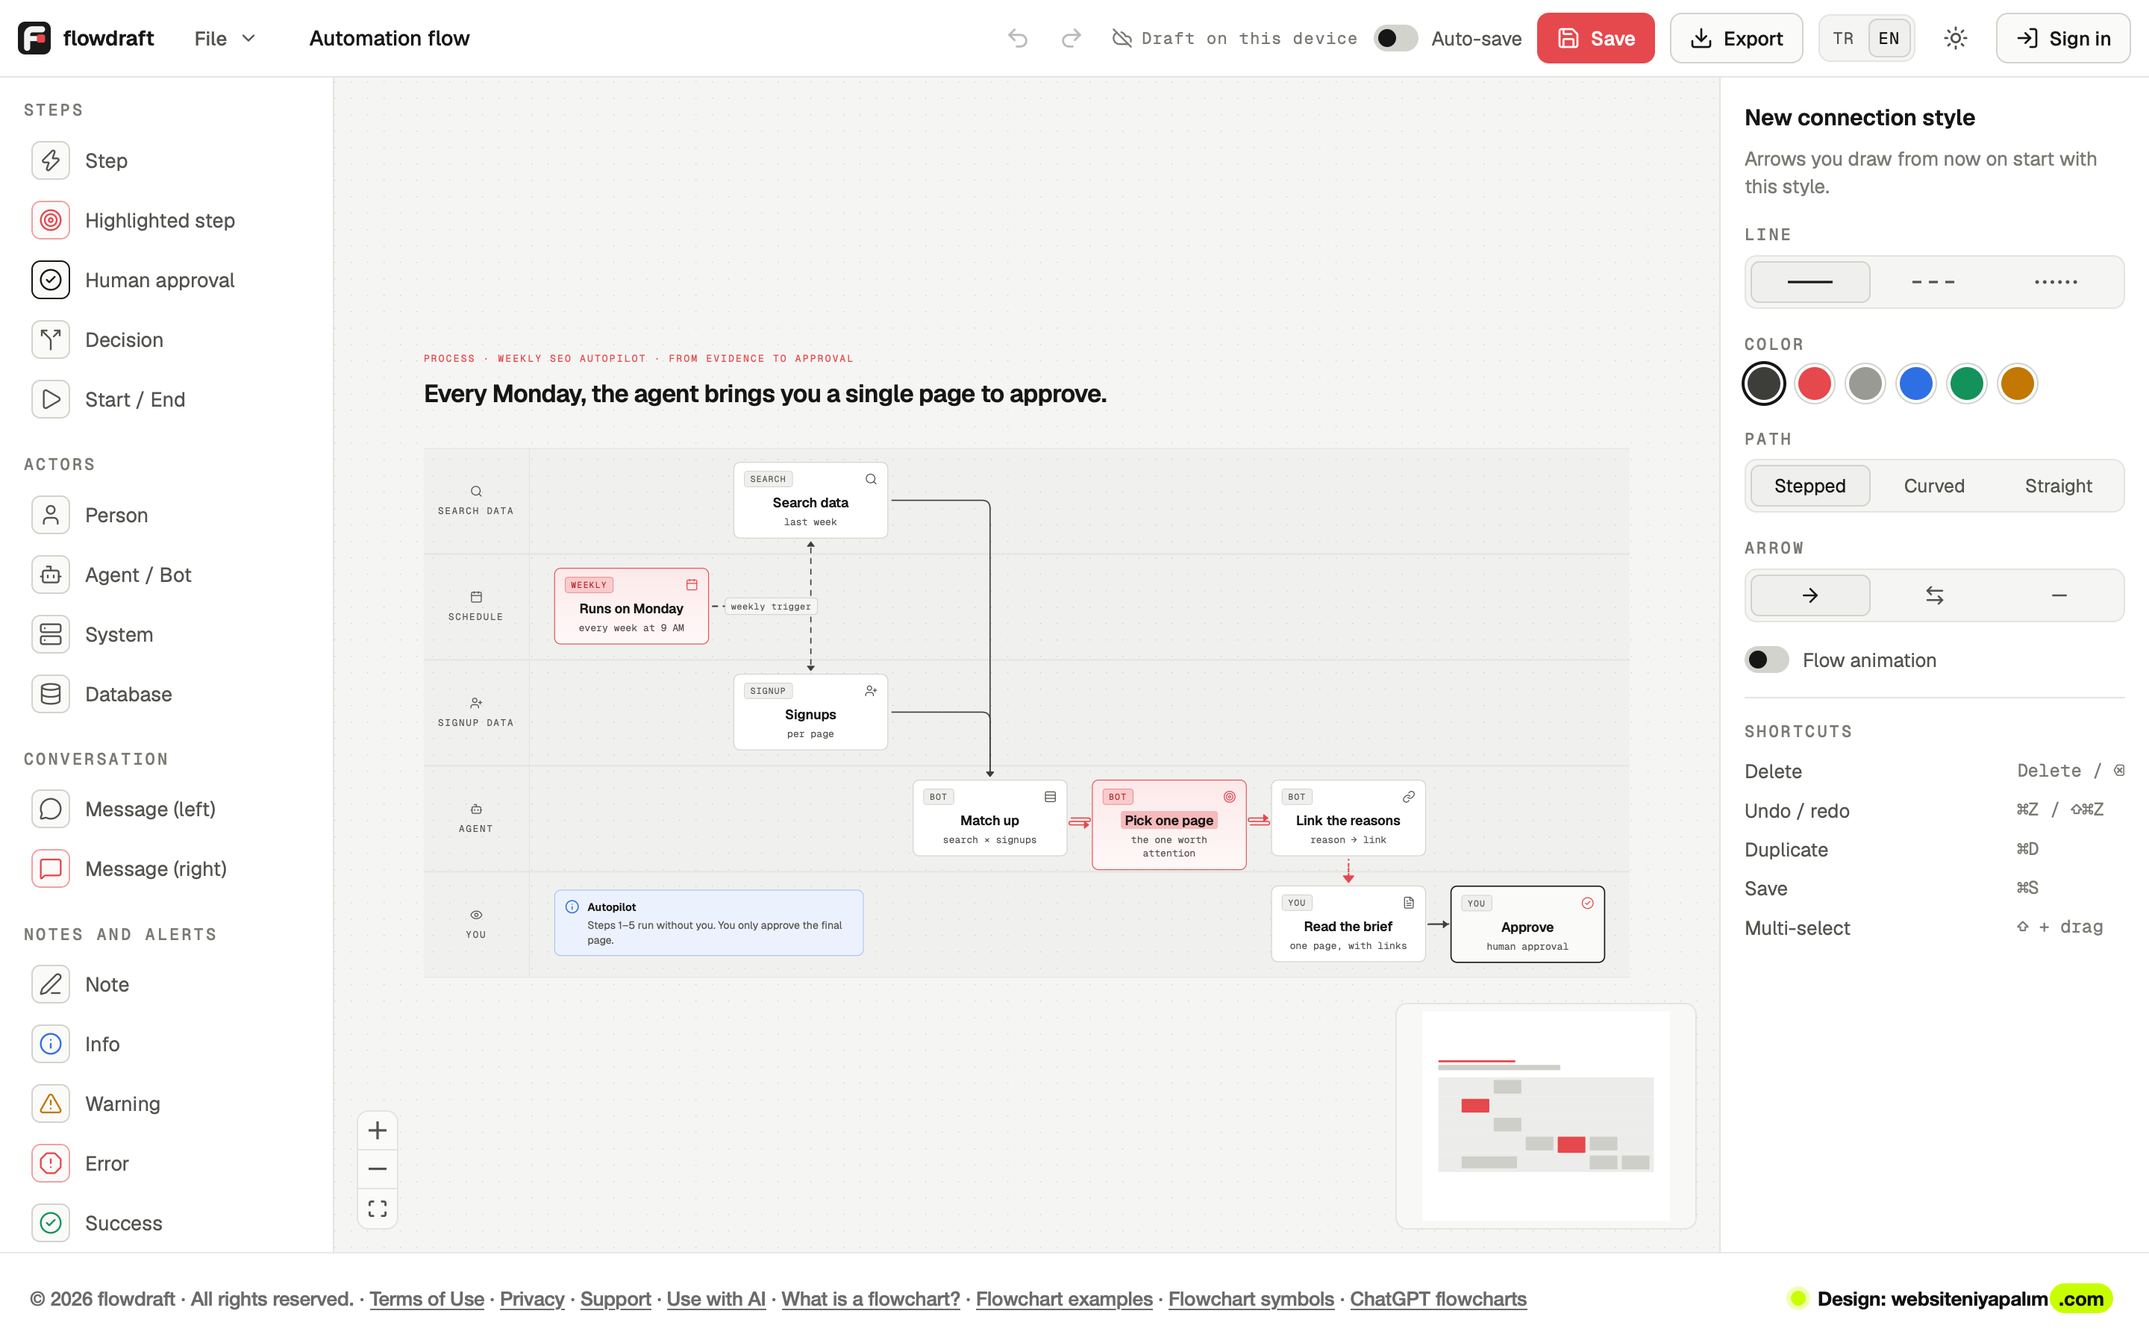
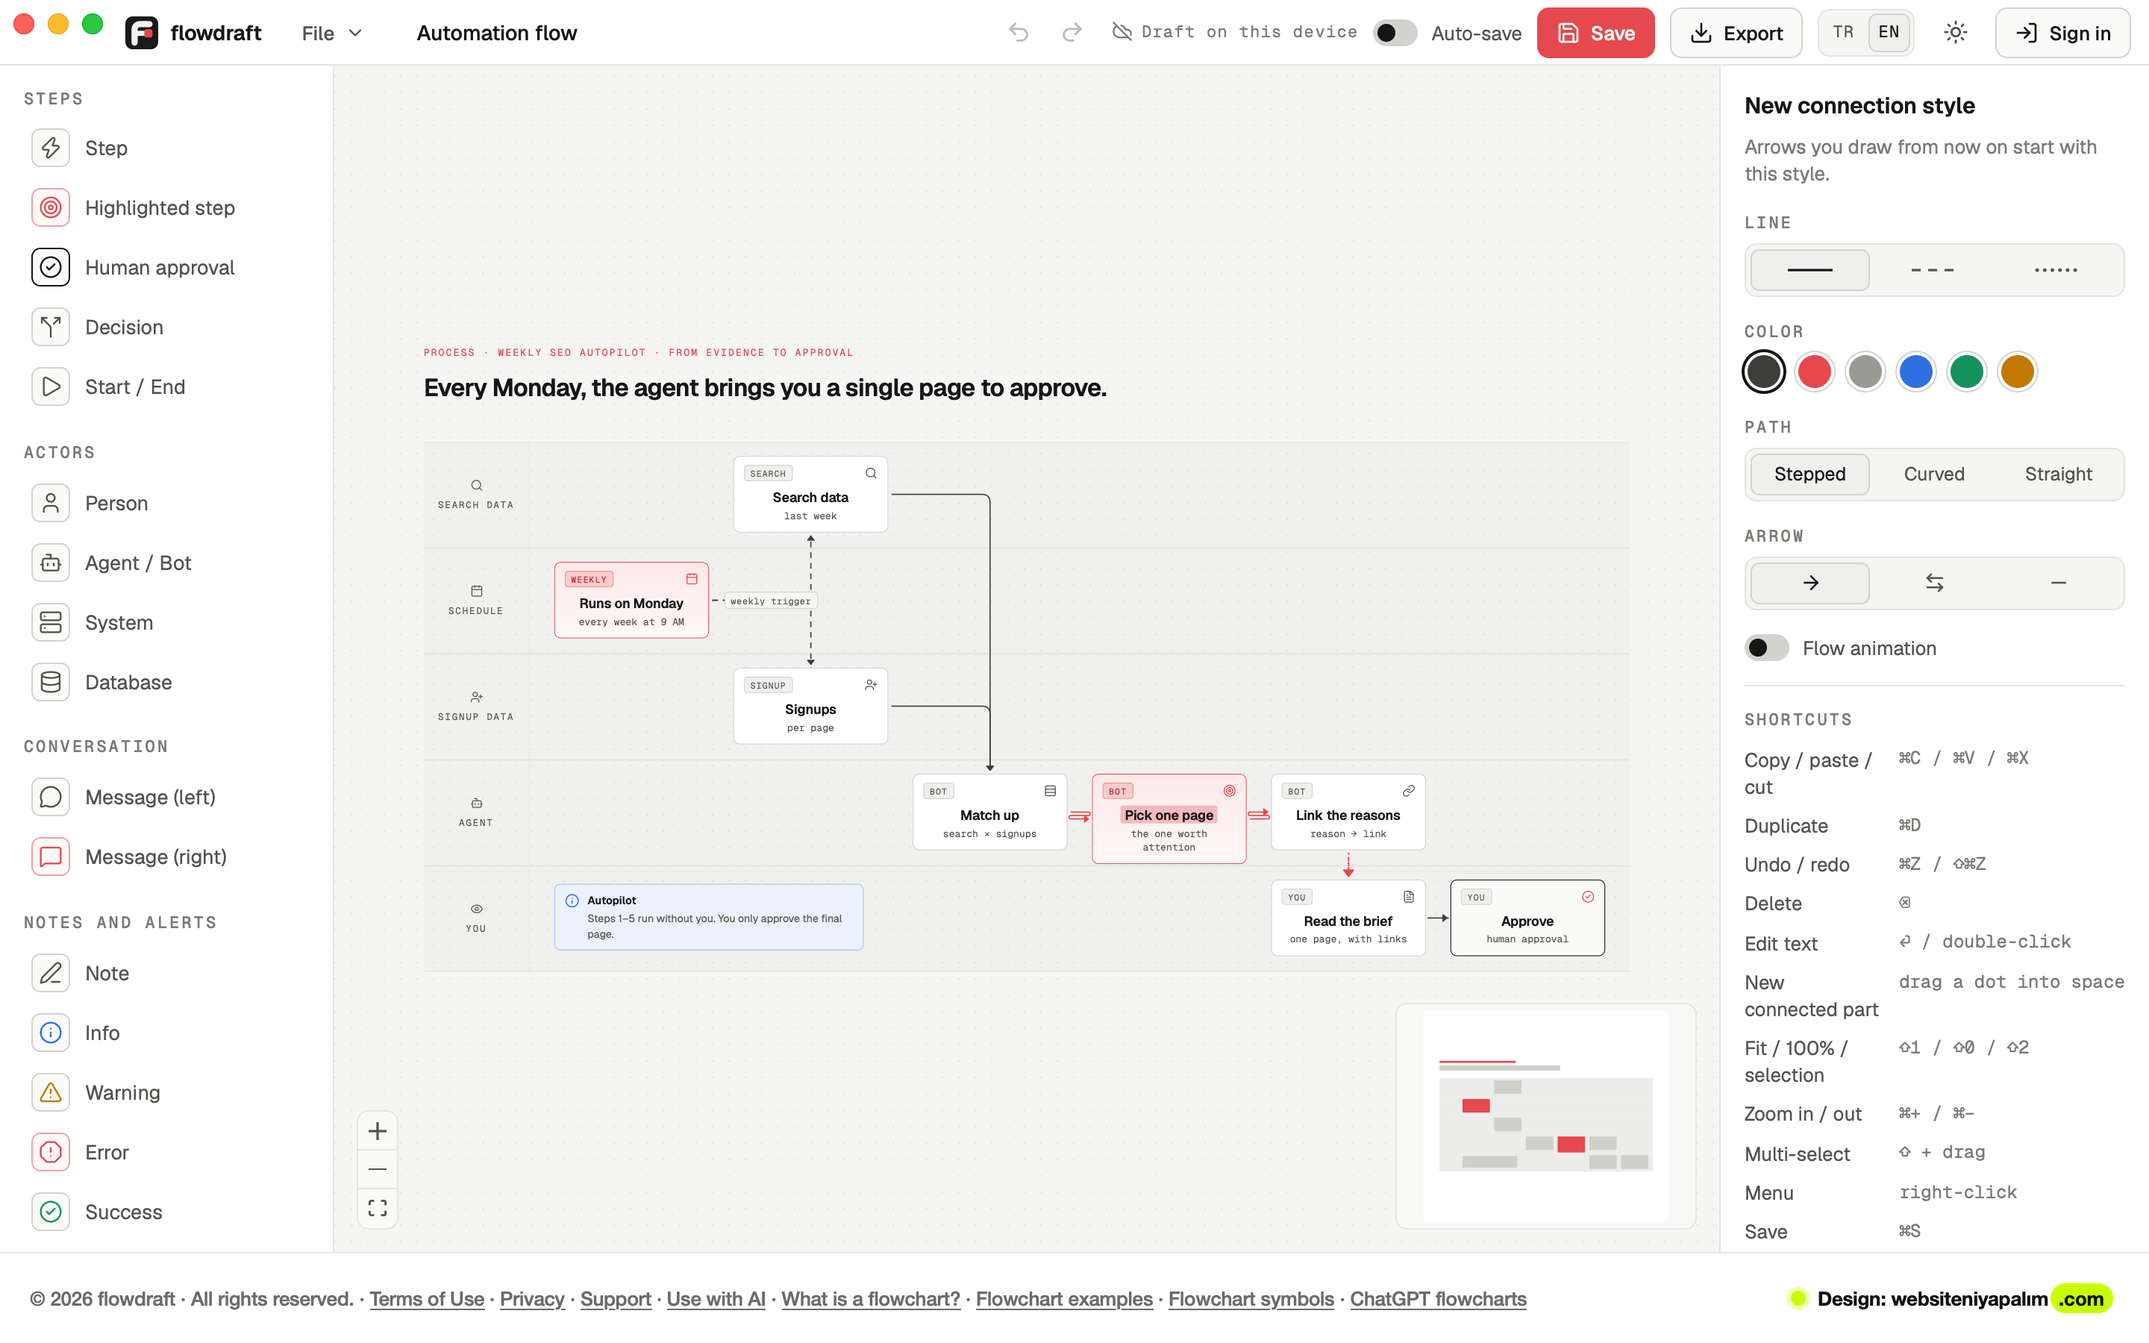
App Store: Mac screenshots with the window chrome; listing texts feature the MCP connection
- The screenshot hook composes WebKit's 2x page snapshot (requested at twice the width, so it is 2880×1800 on
  any screen) with the title bar strip: AppKit's own on a Retina window, macOS-coloured traffic lights on a 1x one.
  The window moves to a Retina screen first when there is one.
- The eight Mac pictures are retaken with the new 44px top bar and the current shortcut list; the script now hides
  the 0.3.0 what's-new dialog.
- Promotional text, keywords and description (TR and EN) say that flowdraft connects to Claude, ChatGPT, Claude
  Code, Codex, Cursor and VS Code over MCP, that flows can be drawn from the chat and that the open flow updates live.

diff --git a/ios/Flowdraft/WebViewController.swift b/ios/Flowdraft/WebViewController.swift
@@ -337,6 +337,7 @@ extension WebViewController {
            let restrictions = view.window?.windowScene?.sizeRestrictions {
             restrictions.minimumSize = CGSize(width: size[0], height: size[1])
             restrictions.maximumSize = restrictions.minimumSize
+            Self.moveWindowToRetinaScreen(height: size[1])
         }
         #else
         if env["FLOWDRAFT_DEBUG_LANDSCAPE"] != nil {
@@ -350,14 +351,125 @@ extension WebViewController {
             // `FLOWDRAFT_DEBUG_SNAPSHOT=/path.png` writes the web view's pixels once the script is done (App Store screenshots).
             guard let self, let path = env["FLOWDRAFT_DEBUG_SNAPSHOT"], (try? result.get()) as? String != "reload" else { return }
             DispatchQueue.main.asyncAfter(deadline: .now() + 0.6) {
+                #if targetEnvironment(macCatalyst)
+                // The Mac picture is the window as the App Store shows it: the page from the web view (rendered out of
+                // process, so a plain window capture misses it) with the traffic lights AppKit draws on top. The app
+                // comes to the front first so the lights are coloured.
+                Self.activateApp()
+                DispatchQueue.main.asyncAfter(deadline: .now() + 0.5) {
+                    // 2x pixels whatever the screen: WebKit renders at the requested width and tags the image 1x.
+                    let config = WKSnapshotConfiguration()
+                    config.snapshotWidth = NSNumber(value: Double(self.webView.bounds.width) * 2)
+                    self.webView.takeSnapshot(with: config) { page, error in
+                        Self.logScreens(page: page)
+                        let image = page.map { Self.windowPicture(page: $0, size: self.webView.bounds.size) }
+                        if let data = image?.pngData() { try? data.write(to: URL(fileURLWithPath: path)) }
+                        print("FLOWDRAFT_DEBUG_SNAPSHOT", image.map { "\(Int($0.size.width * $0.scale))x\(Int($0.size.height * $0.scale))" } ?? "none", error.map { "\($0)" } ?? "")
+                        fflush(stdout)
+                    }
+                }
+                #else
                 self.webView.takeSnapshot(with: nil) { image, error in
                     if let data = image?.pngData() { try? data.write(to: URL(fileURLWithPath: path)) }
                     print("FLOWDRAFT_DEBUG_SNAPSHOT", image.map { "\(Int($0.size.width * $0.scale))x\(Int($0.size.height * $0.scale))" } ?? "none", error.map { "\($0)" } ?? "")
                     fflush(stdout)
                 }
+                #endif
             }
         }
     }
+
+    #if targetEnvironment(macCatalyst)
+    private static func activateApp() {
+        guard let appClass = NSClassFromString("NSApplication"),
+              let app = (appClass as AnyObject).value(forKey: "sharedApplication") as? NSObject else { return }
+        app.perform(NSSelectorFromString("activate"))
+    }
+
+    /// App Store pictures want 2x pixels: the window goes to a Retina screen when it was left on another one.
+    private static func moveWindowToRetinaScreen(height: Double) {
+        guard let window = appKitWindow(), let screenClass = NSClassFromString("NSScreen"),
+              let screens = (screenClass as AnyObject).value(forKey: "screens") as? [NSObject],
+              let retina = screens.first(where: { ($0.value(forKey: "backingScaleFactor") as? Double ?? 1) >= 2 }),
+              let frame = (retina.value(forKey: "frame") as? NSValue)?.cgRectValue else { return }
+        typealias SetOrigin = @convention(c) (AnyObject, Selector, CGPoint) -> Void
+        let selector = NSSelectorFromString("setFrameOrigin:")
+        guard let imp = window.method(for: selector) else { return }
+        unsafeBitCast(imp, to: SetOrigin.self)(window, selector, CGPoint(x: frame.minX, y: frame.maxY - height))
+    }
+
+    private static func appKitWindow() -> NSObject? {
+        guard let appClass = NSClassFromString("NSApplication"),
+              let app = (appClass as AnyObject).value(forKey: "sharedApplication") as? NSObject else { return nil }
+        return (app.value(forKey: "keyWindow") as? NSObject) ?? (app.value(forKey: "windows") as? [NSObject])?.first
+    }
+
+    /// The title bar strip as AppKit draws it (the traffic lights on a transparent background), at the screen's scale.
+    private static func titleBarPicture() -> (image: UIImage, size: CGSize)? {
+        guard let window = appKitWindow(),
+              let frame = (window.value(forKey: "contentView") as? NSObject)?.value(forKey: "superview") as? NSObject,
+              let subviews = frame.value(forKey: "subviews") as? [NSObject],
+              let bar = subviews.first(where: { NSStringFromClass(type(of: $0)).contains("TitlebarContainerView") }),
+              let bounds = (bar.value(forKey: "bounds") as? NSValue)?.cgRectValue else { return nil }
+        typealias RepFor = @convention(c) (AnyObject, Selector, CGRect) -> Unmanaged<AnyObject>?
+        typealias Cache = @convention(c) (AnyObject, Selector, CGRect, AnyObject) -> Void
+        let repSelector = NSSelectorFromString("bitmapImageRepForCachingDisplayInRect:")
+        let cacheSelector = NSSelectorFromString("cacheDisplayInRect:toBitmapImageRep:")
+        guard let repImp = bar.method(for: repSelector), let cacheImp = bar.method(for: cacheSelector),
+              let rep = unsafeBitCast(repImp, to: RepFor.self)(bar, repSelector, bounds)?.takeUnretainedValue() as? NSObject
+        else { return nil }
+        unsafeBitCast(cacheImp, to: Cache.self)(bar, cacheSelector, bounds, rep)
+        // The rep's CGImage can't travel through key-value coding; its PNG bytes can (NSBitmapImageFileTypePNG = 4).
+        typealias RepData = @convention(c) (AnyObject, Selector, UInt, AnyObject?) -> Unmanaged<AnyObject>?
+        let dataSelector = NSSelectorFromString("representationUsingType:properties:")
+        guard let dataImp = rep.method(for: dataSelector),
+              let data = unsafeBitCast(dataImp, to: RepData.self)(rep, dataSelector, 4, NSDictionary())?.takeUnretainedValue() as? Data,
+              let image = UIImage(data: data) else { return nil }
+        return (image, bounds.size)
+    }
+
+    private static func logScreens(page: UIImage?) {
+        guard let screenClass = NSClassFromString("NSScreen"),
+              let screens = (screenClass as AnyObject).value(forKey: "screens") as? [NSObject] else { return }
+        let list = screens.map { "\(($0.value(forKey: "frame") as? NSValue)?.cgRectValue ?? .zero)@\($0.value(forKey: "backingScaleFactor") ?? 0)" }
+        let window = appKitWindow()
+        print("FLOWDRAFT_DEBUG_SCREENS", list, "window", (window?.value(forKey: "frame") as? NSValue)?.cgRectValue ?? .zero,
+              "@", window?.value(forKey: "backingScaleFactor") ?? 0, "page", page?.size ?? .zero, "@", page?.scale ?? 0)
+        fflush(stdout)
+    }
+
+    /// The window's backing scale, 1 on a plain screen and 2 on a Retina one.
+    private static func windowScale() -> CGFloat {
+        (appKitWindow()?.value(forKey: "backingScaleFactor") as? CGFloat) ?? 1
+    }
+
+    /// The page's pixels at 2x with the title bar strip on top. AppKit's own strip is used when the window sits on a
+    /// Retina screen; on a plain screen it would come out soft, so the traffic lights are drawn in macOS's colours.
+    private static func windowPicture(page: UIImage, size: CGSize) -> UIImage {
+        let format = UIGraphicsImageRendererFormat()
+        format.scale = 2
+        return UIGraphicsImageRenderer(size: size, format: format).image { ctx in
+            page.draw(in: CGRect(origin: .zero, size: size))
+            if windowScale() >= 2, let bar = titleBarPicture() {
+                bar.image.draw(in: CGRect(origin: .zero, size: bar.size))
+                return
+            }
+            let lights: [(fill: UIColor, ring: UIColor)] = [
+                (UIColor(red: 1, green: 0.373, blue: 0.341, alpha: 1), UIColor(red: 0.878, green: 0.267, blue: 0.243, alpha: 1)),
+                (UIColor(red: 0.996, green: 0.737, blue: 0.18, alpha: 1), UIColor(red: 0.871, green: 0.631, blue: 0.137, alpha: 1)),
+                (UIColor(red: 0.157, green: 0.784, blue: 0.251, alpha: 1), UIColor(red: 0.102, green: 0.671, blue: 0.161, alpha: 1)),
+            ]
+            for (i, light) in lights.enumerated() {
+                let rect = CGRect(x: 9 + CGFloat(i) * 23, y: 9, width: 14, height: 14)
+                light.fill.setFill()
+                ctx.cgContext.fillEllipse(in: rect)
+                light.ring.setStroke()
+                ctx.cgContext.setLineWidth(0.5)
+                ctx.cgContext.strokeEllipse(in: rect.insetBy(dx: 0.25, dy: 0.25))
+            }
+        }
+    }
+    #endif
 }
 #endif
 

diff --git a/ios/AppStore/metadata.md b/ios/AppStore/metadata.md
@@ -1,6 +1,6 @@
 # App Store kaydı — flowdraft (iPhone + iPad + Mac)
 
-- macOS sürümü aynı kayıt ve aynı bundle ID (Mac Catalyst, `project.yml`: `SUPPORTS_MACCATALYST`, cihaz ailesi 1,2,6 = Mac arayüzü; macOS 15+; `Flowdraft/Mac.entitlements` sandbox + ağ + kullanıcı seçimli dosya). Mac'te dışa aktarma kaydetme penceresi, bağlantılar varsayılan tarayıcı. ASC macOS sürümü 1.0 (2026-10-24), metinler aşağıdaki iPhone/iPad metinlerinin Mac uyarlaması (ASC'de), inceleme notları `review-notes-mac.txt`, ekran görüntüleri `screenshots/*-mac-*` (2880×1800, Debug build + `FLOWDRAFT_DEBUG_WINDOW=1440x900` + `FLOWDRAFT_DEBUG_SNAPSHOT`).
+- macOS sürümü aynı kayıt ve aynı bundle ID (Mac Catalyst, `project.yml`: `SUPPORTS_MACCATALYST`, cihaz ailesi 1,2,6 = Mac arayüzü; macOS 15+; `Flowdraft/Mac.entitlements` sandbox + ağ + kullanıcı seçimli dosya). Mac'te dışa aktarma kaydetme penceresi, bağlantılar varsayılan tarayıcı. ASC macOS sürümü 1.0 (2026-10-24), metinler aşağıdaki iPhone/iPad metinlerinin Mac uyarlaması (ASC'de), inceleme notları `review-notes-mac.txt`, ekran görüntüleri `screenshots/*-mac-*` (2880×1800, pencerenin tamamı, trafik ışıkları dahil: Debug build + `FLOWDRAFT_DEBUG_WINDOW=1440x900` + `FLOWDRAFT_DEBUG_SNAPSHOT`, `scripts/app-store/mac-screenshots.sh`). Mac metinleri ASC'de ayrı girilir; aşağıdaki metinlerin MCP bölümü ve tanıtım metni oraya da taşınmalı.
 - Demo hesap (App Review, iki platform): `appreview@flowdraft.tech`; parola Keychain'de `flowdraft-appstore-demo` öğesinde ve ASC "Sign-In Information" alanlarında.
 - Mac arşiv/yükleme: `xcodebuild archive -destination 'generic/platform=macOS,variant=Mac Catalyst'` + aynı `ExportOptions.plist` (3rd Party Mac Developer Installer sertifikası gerekir). Kimlik için `-allowProvisioningUpdates -authenticationKeyPath ~/.appstoreconnect/private_keys/AuthKey_XP2X24JU5D.p8 -authenticationKeyID XP2X24JU5D -authenticationKeyIssuerID <issuer>`.
 
@@ -19,13 +19,13 @@ flowdraft
 Akış diyagramı çiz ve paylaş
 
 ## Tanıtım metni (170)
-Sürükle, bağla, dışa aktar. Otomasyon, yazılım ve konuşma akışlarını dakikalar içinde çiz; PNG, SVG ya da JSON olarak paylaş. Hesap açmadan hemen başla.
+Sürükle, bağla, dışa aktar. Akışlarını dakikalar içinde çiz; PNG, SVG ya da JSON olarak paylaş. Claude ve ChatGPT'ye MCP ile bağla, akışı sohbetten çizdir.
 
 ## Anahtar kelimeler (100)
-akış,diyagram,şema,flowchart,süreç,iş akışı,otomasyon,mimari,çizim,tahta,plan,organizasyon
+akış,diyagram,şema,flowchart,süreç,iş akışı,otomasyon,mimari,çizim,plan,mcp,yapay zeka,ai
 
 ## Açıklama
-flowdraft, iPhone ve iPad için hızlı ve sade bir akış diyagramı editörü. Süreçlerini, otomasyonlarını, yazılım mimarini ve müşteri konuşmalarını birkaç dokunuşla çiz.
+flowdraft, iPhone, iPad ve Mac için hızlı ve sade bir akış diyagramı editörü. Süreçlerini, otomasyonlarını, yazılım mimarini ve müşteri konuşmalarını birkaç dokunuşla çiz. Claude, ChatGPT gibi AI araçlarına MCP ile bağlanır: akışını sohbetten çizdir, burada düzenle.
 
 HEMEN BAŞLA
 • Hesap açmadan kullan; çizimin bu cihazda otomatik saklanır.
@@ -51,10 +51,13 @@ DIŞA AKTAR VE PAYLAŞ
 • Ücretsiz hesapla projelerini kaydet, otomatik kaydetmeyi aç; aynı projeleri flowdraft.tech üzerinden tarayıcıda da aç.
 • Hesabını ve projelerini istediğin an uygulama içinden silebilirsin.
 
-AI ARAÇLARIYLA KULLAN
-• İstersen flowdraft hesabını MCP destekleyen bir AI asistanına bağla; “bana bir akış çiz” de, akış hesabına kaydedilsin, sonra burada açıp düzenle.
+AI ARAÇLARINA MCP İLE BAĞLANIR
+• flowdraft, MCP (Model Context Protocol) destekleyen her AI aracına bağlanır: Claude, ChatGPT, Claude Code, Codex, Cursor ve VS Code. Hesabına bir kez bağla, gerisi sohbette olur.
+• Sohbette “bana bir sipariş akışı çiz” de: AI akışı hesabına çizer, görselini sohbette gösterir, düzeltmelerini aynı akışa uygular. flowdraft’ı açman bile gerekmez.
+• Uygulamada açık olan akışı AI de görebilir; AI değiştirdiğinde ekran anında yenilenir. İstersen bu paylaşımı kapat.
+• Kurulum rehberi: flowdraft.tech/mcp
 
-Geri al / ileri al, çoğalt, çoklu seçim ve klavye kısayolları (⌘Z, ⇧⌘Z, ⌘D, ⌘S) var. Açık ve koyu tema cihazına uyar.
+Geri al / ileri al, kopyala / yapıştır, çoğalt, çoklu seçim, sağ tık menüsü, hizalama kılavuzları ve klavye kısayolları (⌘Z, ⌘C / ⌘V, ⌘D, ⌘S) var. Açık ve koyu tema cihazına uyar.
 
 flowdraft ücretsizdir; reklam ve uygulama içi satın alma yoktur.
 
@@ -67,13 +70,13 @@ flowdraft
 Draw and share flowcharts
 
 ## Promotional text (170)
-Drag, connect, export. Sketch automations, software architecture and conversations in minutes, then share them as PNG, SVG or JSON. Start right away, no account needed.
+Drag, connect, export. Sketch flows in minutes and share them as PNG, SVG or JSON. Connect Claude or ChatGPT over MCP and have your flows drawn from the chat.
 
 ## Keywords (100)
-flowchart,diagram,workflow,process,flow,chart,automation,architecture,mind map,whiteboard,planning
+flowchart,diagram,workflow,process,flow,chart,automation,architecture,whiteboard,planning,mcp,ai
 
 ## Description
-flowdraft is a fast, simple flowchart and diagram editor for iPhone and iPad. Sketch processes, automations, software architecture and customer conversations in a few taps.
+flowdraft is a fast, simple flowchart and diagram editor for iPhone, iPad and Mac. Sketch processes, automations, software architecture and customer conversations in a few taps. It connects to AI tools such as Claude and ChatGPT over MCP: have a flow drawn from the chat, then edit it here.
 
 START RIGHT AWAY
 • No account needed; your drawing is kept on this device automatically.
@@ -99,10 +102,13 @@ SAVE TO THE CLOUD IF YOU LIKE
 • With a free account, save your projects, turn on auto-save and open the same projects in your browser at flowdraft.tech.
 • Delete your account and projects from inside the app at any time.
 
-USE WITH AI
-• Optionally connect your flowdraft account to an AI assistant that supports MCP; ask it to "draw me a flow", it is saved to your account, then open and edit it here.
+CONNECTS TO AI TOOLS OVER MCP
+• flowdraft connects to any AI tool that supports MCP (Model Context Protocol): Claude, ChatGPT, Claude Code, Codex, Cursor and VS Code. Connect your account once; the rest happens in the chat.
+• Say "draw me an order flow" in the chat: the AI draws it into your account, shows a picture of it in the chat and applies your corrections to the same flow. You don't even need to open flowdraft.
+• The AI can also see the flow you have open here, and the screen updates the moment the AI changes it. Turn that sharing off whenever you like.
+• Setup guide: flowdraft.tech/mcp
 
-Undo/redo, duplicate, multi-select and keyboard shortcuts (⌘Z, ⇧⌘Z, ⌘D, ⌘S). Light and dark themes follow your device.
+Undo/redo, copy/paste, duplicate, multi-select, a right-click menu, alignment guides and keyboard shortcuts (⌘Z, ⌘C / ⌘V, ⌘D, ⌘S). Light and dark themes follow your device.
 
 flowdraft is free, with no ads and no in-app purchases.
 
